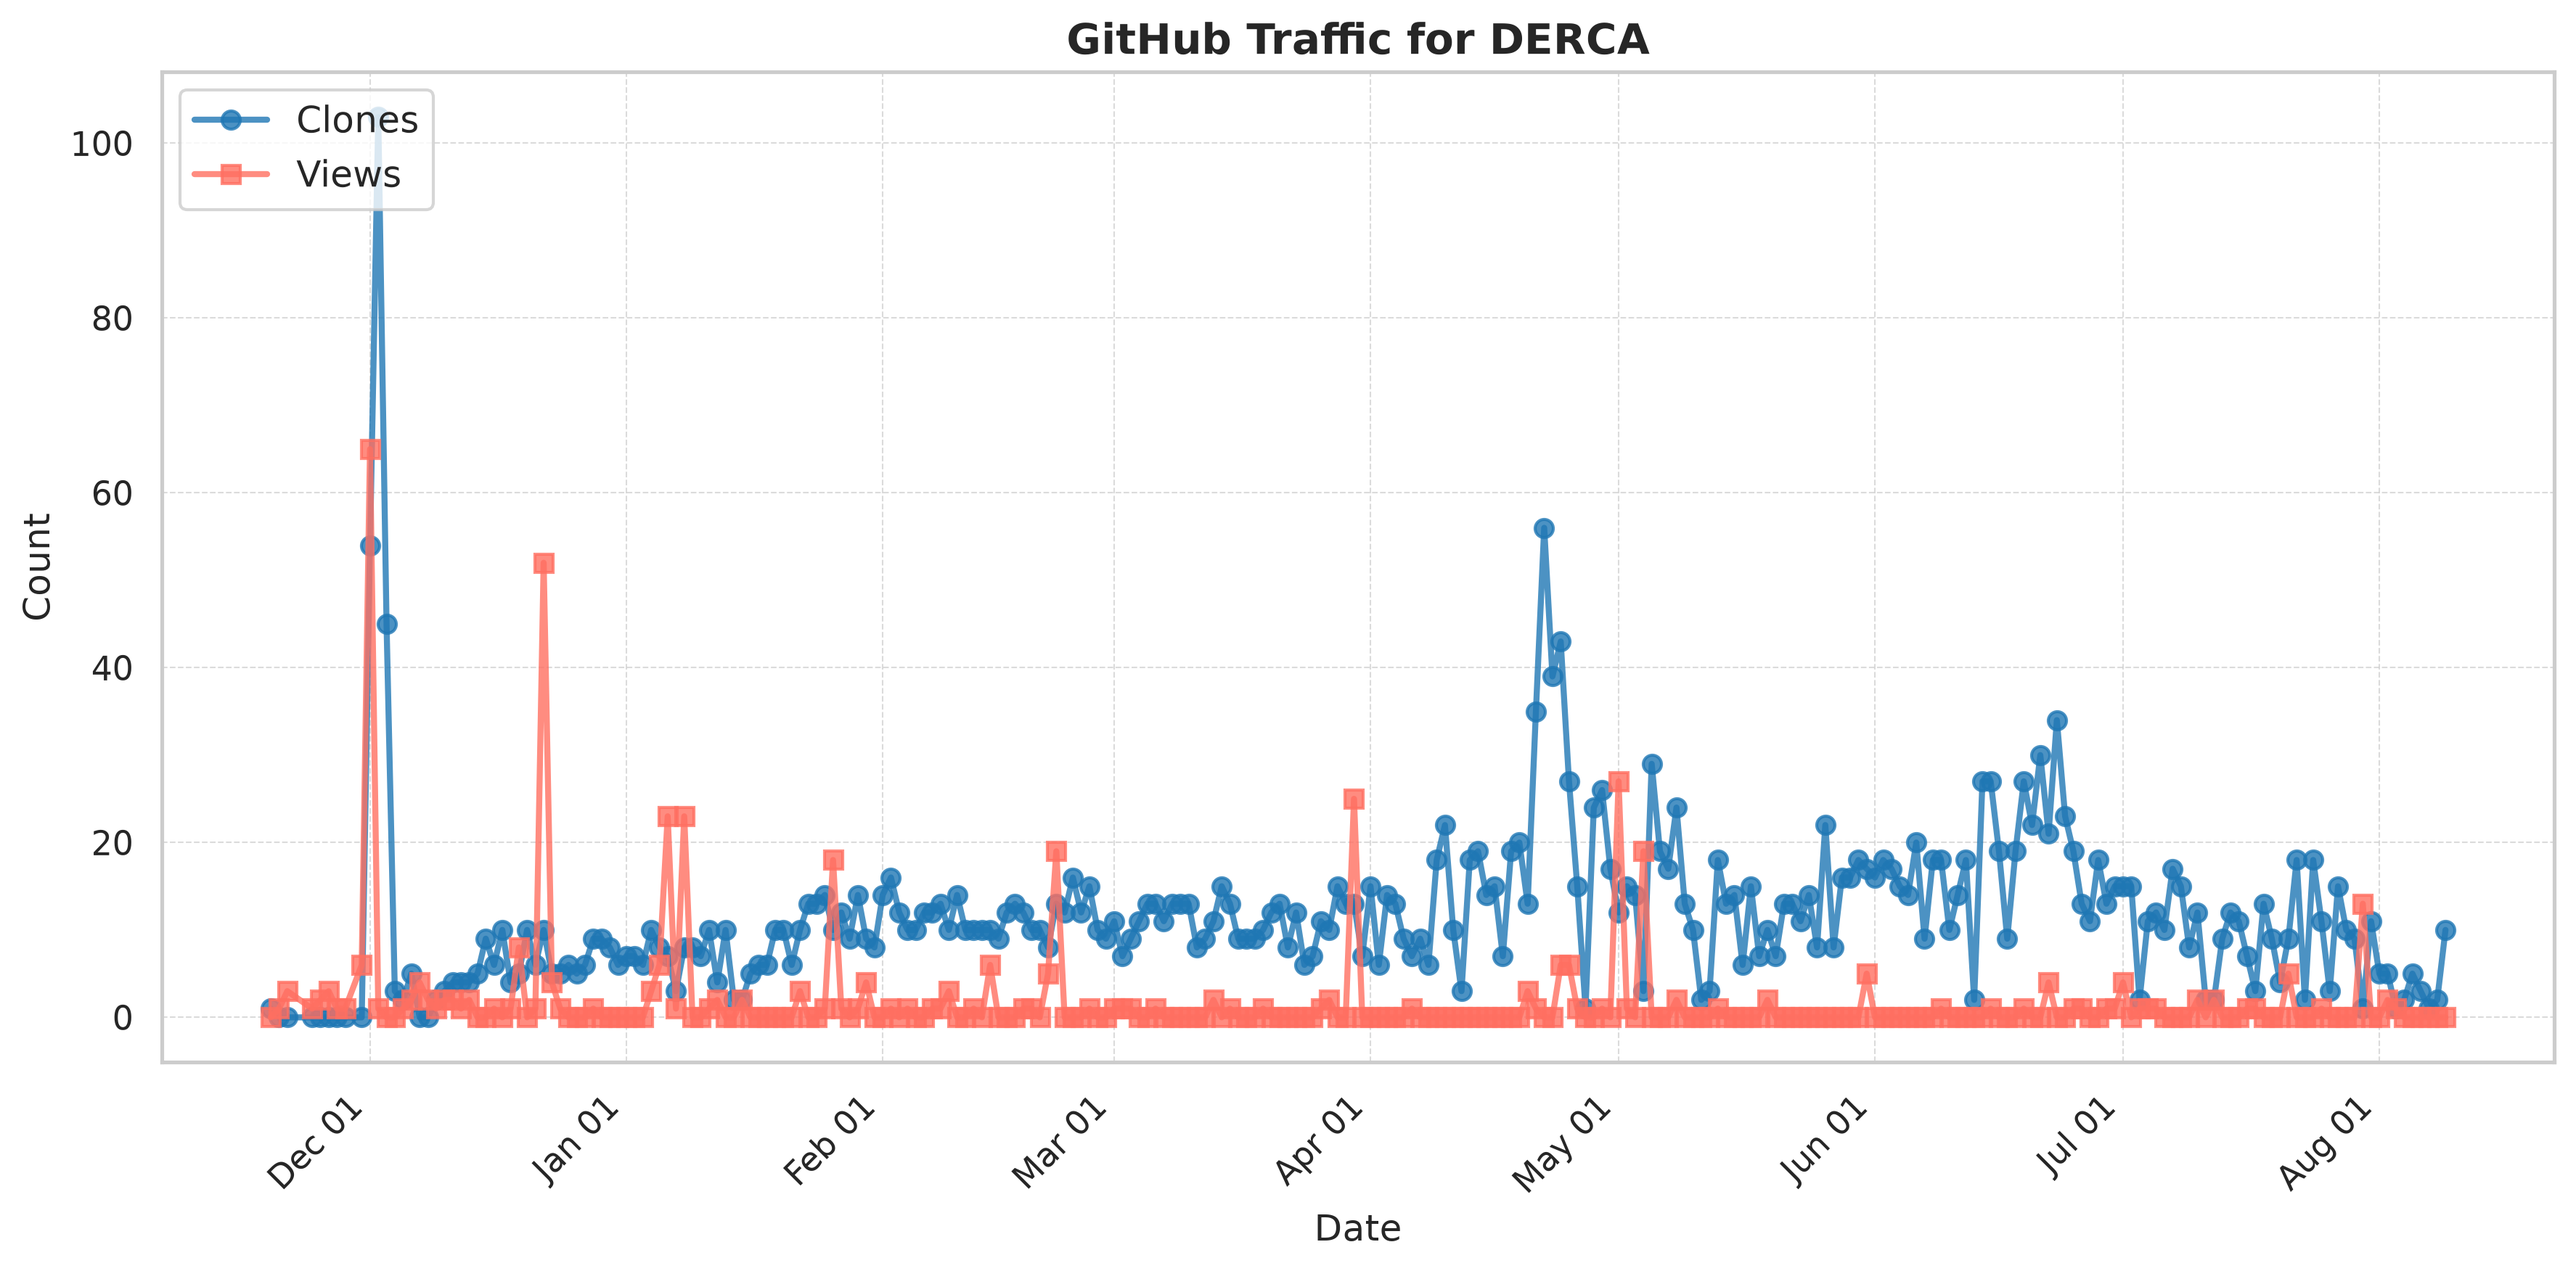
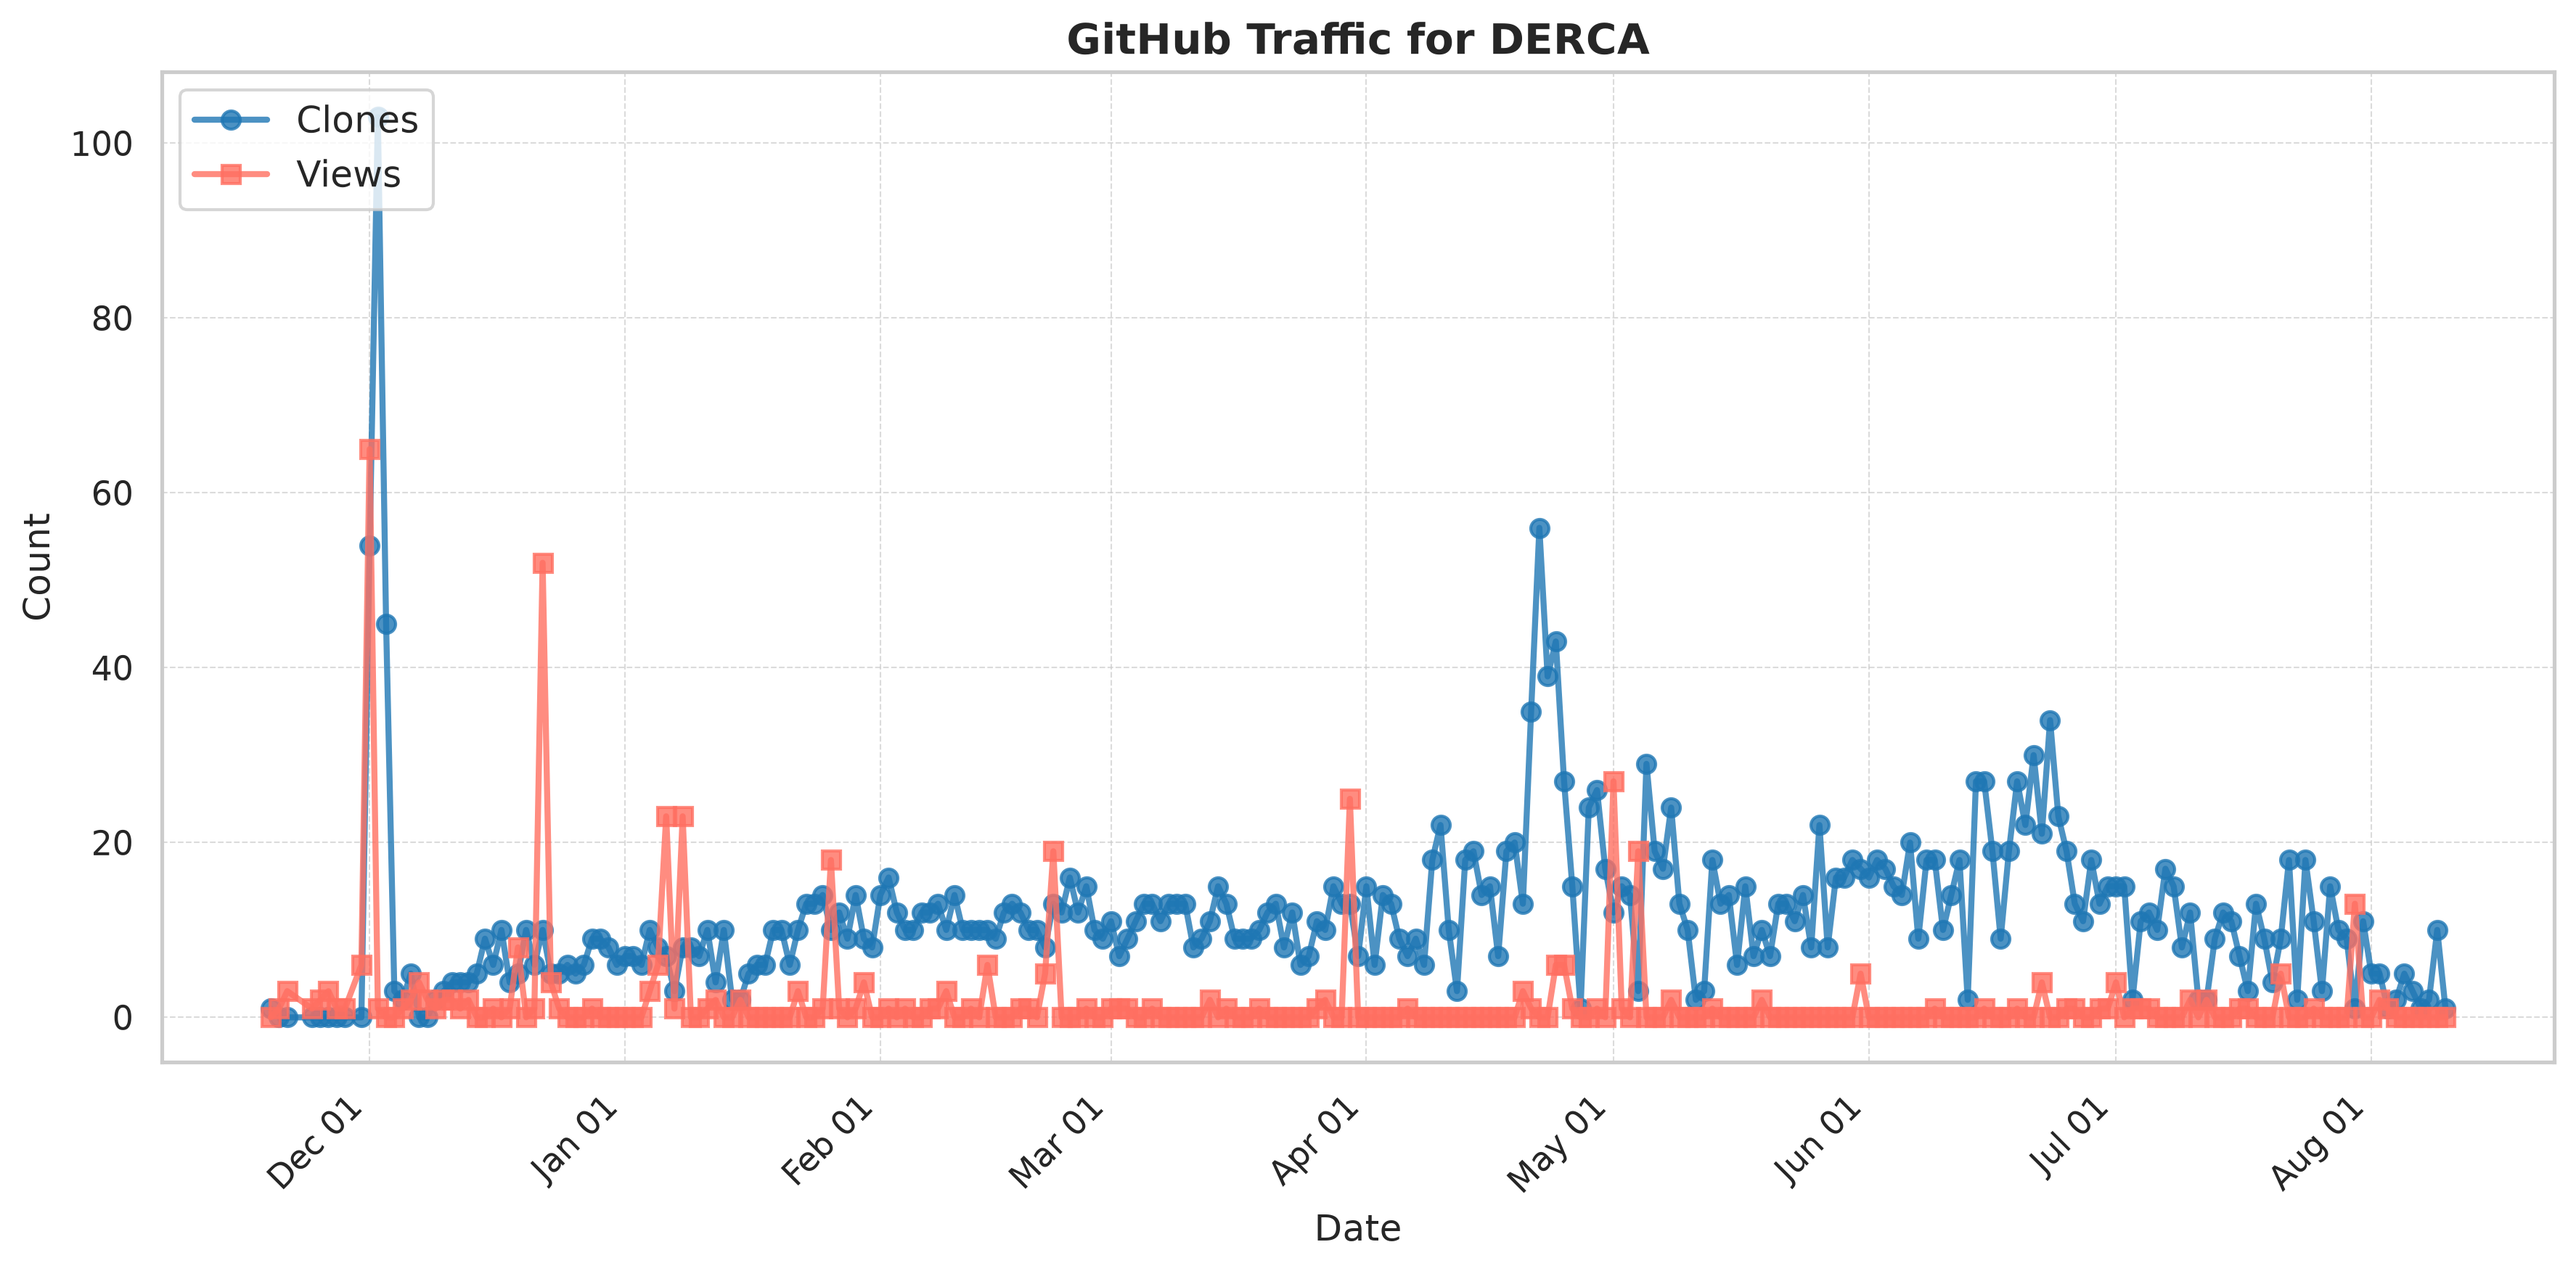
Auto-generated traffic_plot.png and plot_data.csv

diff --git a/README.md b/README.md
@@ -14,7 +14,7 @@ Faculty Collaborators: Prof. Alex Jones (Syracuse University), Prof. Zheng Dong(
 
 # 🚀 Thank You for Using DERCA!!
 **Your support and growing engagement inspire us to continually improve and enhance DERCA**
-- **Downloads since 1 Dec 2025:** <!--CLONES-->3079<!--/CLONES-->
+- **Downloads since 1 Dec 2025:** <!--CLONES-->3080<!--/CLONES-->
 - **Views: since 1 Dec 2025:** <!--VIEWS-->458<!--/VIEWS-->
 <p align="center">
   <picture>
